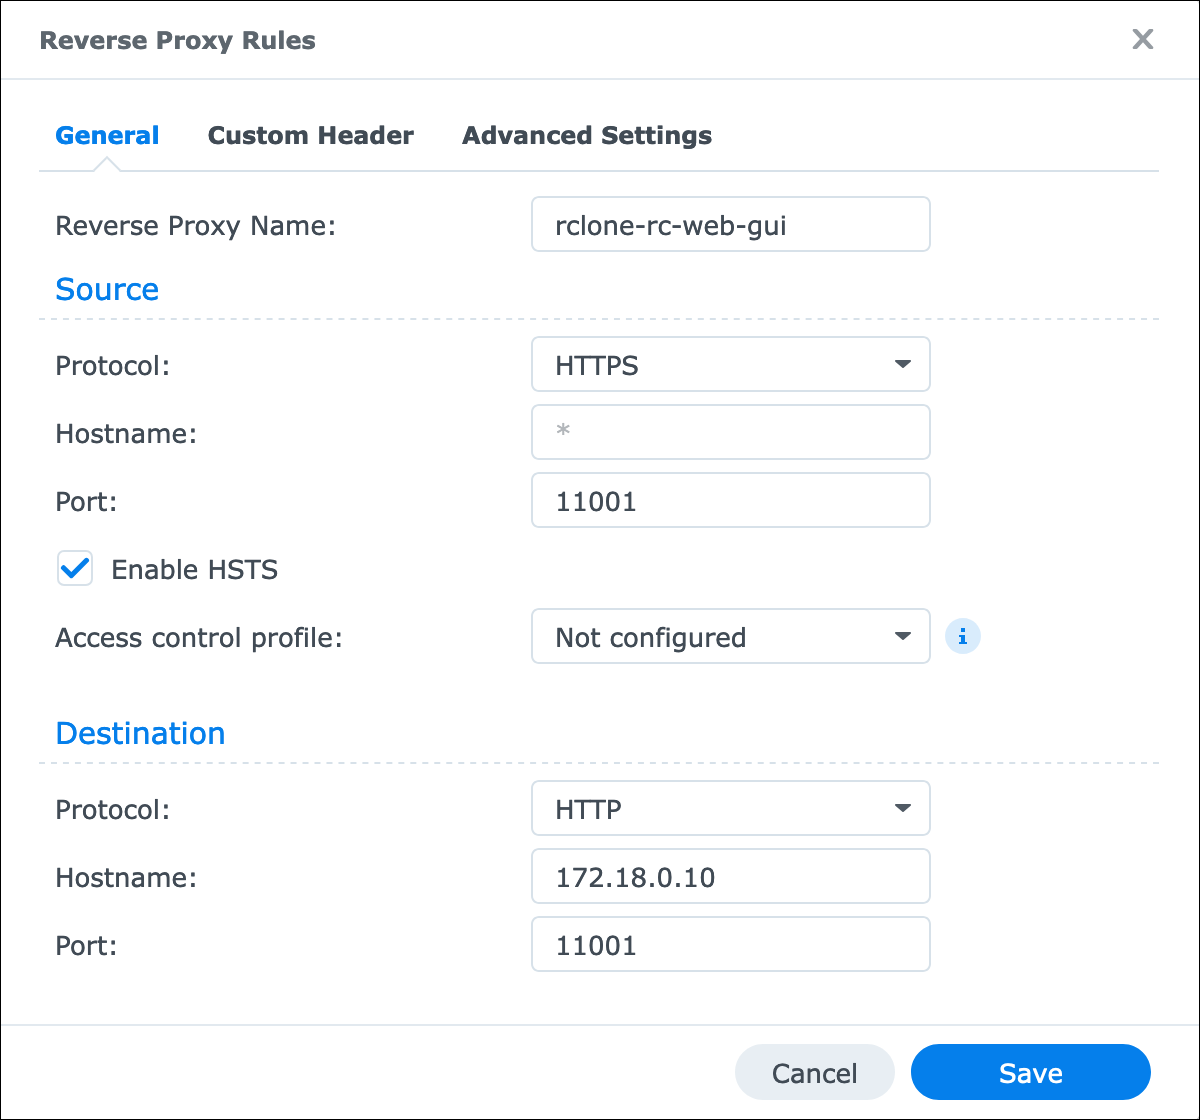
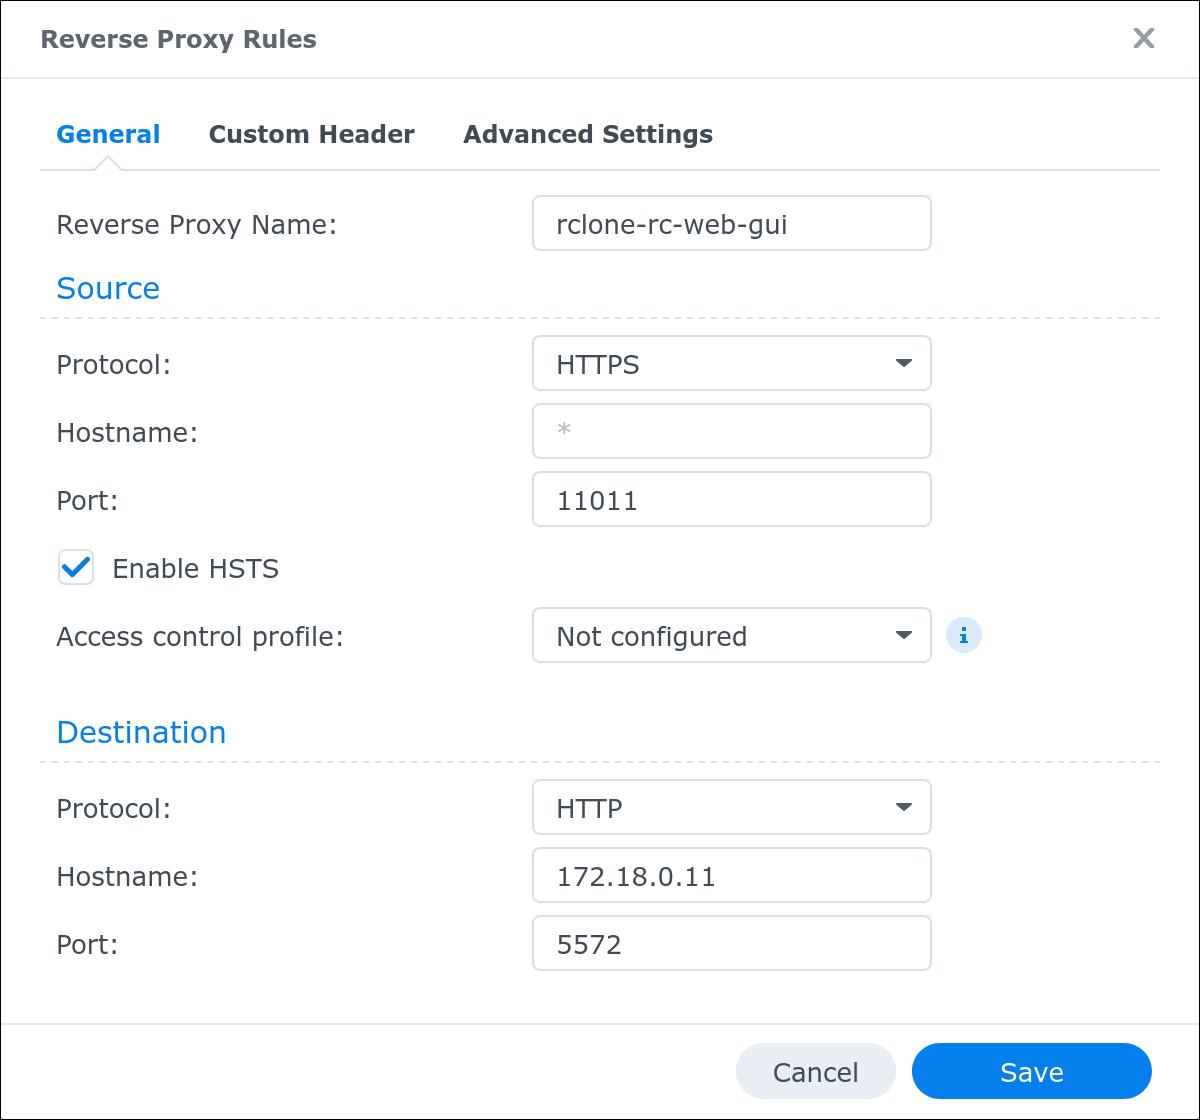
Docker: No intermediate NGINX container in the reverse-proxy chain

diff --git a/docker/README.md b/docker/README.md
@@ -201,11 +201,7 @@ Here's also an example of using this image to run a container in Synology DSM [C
 Being tailored to my needs, this particular setup has certain specifics, which you might not necessaryly want to have in yours, namely:
 
 - the container data folders are owned by a specially created `docker:dockers` system user, which has no access rights to anywhere but that one dedicated `/volume1/docker/` folder (*not sure if that actually makes any difference*);
-- the container port `5572` isn't mapped to the host, as instead there is also an NGINX container running, who serves as a reverse-proxy for it (*and other containers in that particular Docker network*);
-- that NGINX container is in turn also not mapping its ports to host - instead it's Synology DSM Login Portal who exposes NGINX container ports via the [Reverse Proxy](https://kb.synology.com/vi-vn/DSM/help/DSM/AdminCenter/system_login_portal_advanced?version=7#b_5) feature;
-    - this intermediate step of having NGINX container might seem redundant, and you can actually reverse-proxy the containers "directly", but in that case you won't be able to access them by names, so instead of having one static IP address of just the NGINX container, you will have to use static IP addresses of every single container, which is less convenient.
-
-...so if your setup is different, you will need to adjust the following instructions accordingly.
+- the container's port (*`5572`*) isn't mapped to the host, instead the container gets a static IP address assigned to it in a custom Docker bridge network, and then it gets reverse-proxied with Synology DSM Login Portal [Reverse Proxy](https://kb.synology.com/vi-vn/DSM/help/DSM/AdminCenter/system_login_portal_advanced?version=7#b_5) feature.
 
 First, create a folder for storing the container data - what needs to survive between container restarts/rebuilds. I've put mine into `/volume1/docker/rclone-rc-web-gui/`. Inside that path create folders for `data`, `settings` and `config`. Then make `docker` user to be the owner of those folders:
 
@@ -213,11 +209,7 @@ First, create a folder for storing the container data - what needs to survive be
 
 Once again about the UIDs: container works with those folders as `rclone` user with UID `1000`, while a DSM system user (*`docker` in my case*) gets whatever UID the DSM has assigned to it, which is most likely not `1000`. So either do `chown -R 1000:1000` on those folders (*which on Synology DSM can only be done via SSH*) or keep them owned by `docker` and tell the container to run as that user by adding `user: "UID:GID"`. If you fail to do either, the container won't start with an explicit error about that.
 
-If you are ready, open Container Manager and create a new project (*that part of `docker-compose.yaml` on the screenshot is obsolete now, see the actual example after the screenshot*):
-
-![](./images/synology-dsm-container-manager-create.png)
-
-Here's the full example of a `docker-compose.yaml`:
+Then open Container Manager and create a new project:
 
 ``` yaml
 networks:
@@ -226,7 +218,7 @@ networks:
 
 services:
   server:
-    image: decovar/rclone-rc-web-gui:rclone_1.75.1-gui_2026.9.12
+    image: decovar/rclone-rc-web-gui:rclone_1.75.2-gui_2026.10.10
     container_name: rclone-rc-web-gui
     restart: unless-stopped
     user: "YOUR-DOCKER-USER-UID:YOUR-DOCKERS-GROUP-GID"
@@ -237,7 +229,7 @@ services:
       # that is the IP address of my Synology NAS host in my home network
       - RCLONE_ALLOW_ORIGIN_HOST=192.168.1.100
       # that public port on my Synology NAS exposed via Reverse Proxy in Login Portal
-      - RCLONE_ALLOW_ORIGIN_PORT=11001
+      - RCLONE_ALLOW_ORIGIN_PORT=11011
       # username for Basic authentication
       - RCLONE_USER=rclone
       # password for Basic authentication
@@ -246,9 +238,7 @@ services:
       - HOME=/home/rclone
     networks:
       hub:
-        # static IP address for the container, which isn't really needed for this one,
-        # as it will be accessed by NGINX container via name, not IP address. But while
-        # we are here, this is how NGINX container gets its static IP address 172.18.0.10
+        # static IP address (for Synology DSM's Reverse Proxy to be able to reach the container)
         ipv4_address: 172.18.0.11
     volumes:
       # default local remote path, which doesn't even have to be mapped, if you don't intend to use it
@@ -274,27 +264,11 @@ If you don't yet have a custom network, container creation will fail. So create 
 
 ![](./images/synology-dsm-container-manager-network-hub.png)
 
-And then for NGINX container you add the following website configuration (*`/volume1/docker/nginx/data/conf.d/rclone-rc-web-gui.conf`, in my case*):
-
-``` nginx
-server {
-    listen 11001;
-
-    location / {
-        proxy_pass http://rclone-rc-web-gui:5572;
-        proxy_set_header Host $host:$server_port;
-        proxy_set_header X-Forwarded-Proto https;
-    }
-}
-```
-
 Finally, here are the settings for Reverse Proxy in Login Portal:
 
 ![](./images/synology-dsm-login-portal-reverse-proxy.png)
 
-The `172.18.0.10` on the screenshot is the static IP address of the NGINX container in that same custom Docker network named `hub`.
-
-This is it, once you build and run the container, the GUI should become available at <https://192.168.1.100:11001>, and `rclone rc` requests should satisfy the CORS policy.
+This is it - once you build and run the container, the GUI should become available at <https://192.168.1.100:11011> (*and HTTP requests to `rclone rc` should satisfy the CORS policy*).
 
 ## Breaking changes
 
